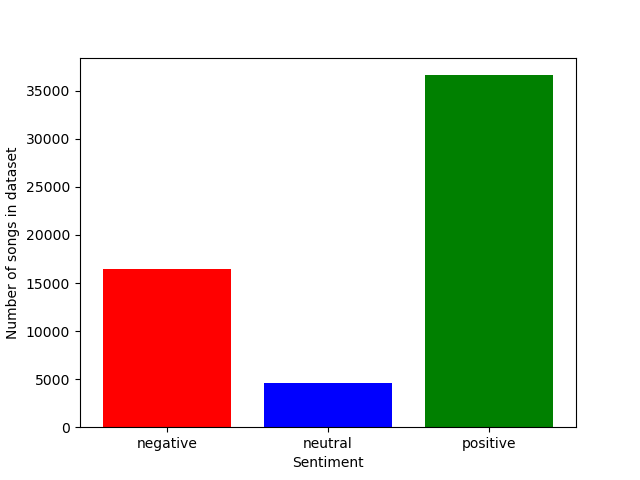
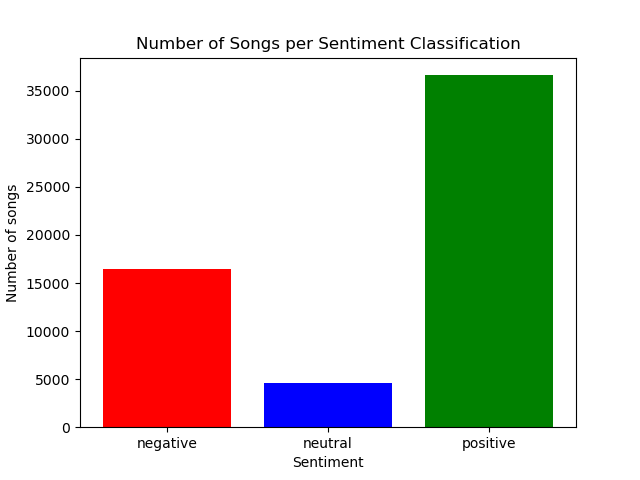
new models

Changed region(s): [[0.2188, 0.0625, 0.8125, 0.125], [0.0, 0.3125, 0.0312, 0.7188]]

diff --git a/get_top5/knn_sentiment.py b/get_top5/knn_sentiment.py
@@ -6,31 +6,61 @@ import re
 import top5_sentiment as tp
 import matplotlib.pyplot as plt
 from sklearn.neighbors import NearestNeighbors
+from sklearn.cluster import KMeans
+from sklearn.model_selection import train_test_split
+from sklearn.linear_model import LogisticRegression
+from sklearn.metrics import classification_report
+from nltk.tokenize import sent_tokenize, word_tokenize, RegexpTokenizer
+from nltk.sentiment.vader import SentimentIntensityAnalyzer
+import plotly.express as px
+from sklearn.naive_bayes import MultinomialNB
+from sklearn.model_selection import train_test_split
+from sklearn.metrics import classification_report
 
 
 data = pd.read_csv('data_with_sentiment.csv')
 scores = data['Sentiment Scores'].tolist()
 lyrics = data['text'].tolist()
 
+#length of song titles and lyrics
+data['song_title_word_count'] = data['song'].str.split().str.len()
+data['lyrics_word_count'] = data['text'].str.split().str.len()
+
+"---------------------------------------------------------------------------------"
+
 neg = sum(1 for num in scores if num < 0)
 zero = sum(1 for num in scores if num == 0)
 pos = sum(1 for num in scores if num > 0)
 
-#Total dataset
+#overall analysis of dataframe with sentiment score data (mean, std, etc.)
+print("Overall Song Sentiment Data")
+print(data['Sentiment Scores'].describe())
+print()
+
+#Total dataset counts and graph of it
 print("Number of negative songs:", neg)
 print("Number of neutral songs:", zero)
 print("Number of positive songs:", pos)
-
-categories = ['negative', 'neutral', 'positive']
-counts = [neg, zero, pos]
-plt.bar(categories, counts, color=['red', 'blue', 'green'])
+vals = ['negative', 'neutral', 'positive']
+plt.bar(vals, [neg, zero, pos], color=['red', 'blue', 'green'])
 plt.xlabel('Sentiment')
-plt.ylabel('Number of songs in dataset')
+plt.ylabel('Number of songs')
+plt.title('Number of Songs per Sentiment Classification')
 plt.savefig('full_dataset_songs_sentiment.png')
 
+"---------------------------------------------------------------------------------"
 
-k = 5
+#Histogram of Lyric Count versus Sentiment Score (-1 is the lowest, 1 is the highest)
+plt.clf()  
+plt.hist(data['Sentiment Scores'], bins=20, color='gray')
+plt.xlabel('Sentiment Score')
+plt.ylabel('Frequency')
+plt.title('Number of Lyrics vs Distribution of Sentiment Scores')
+plt.savefig('sentiment_histogram_with_wordcount.png')
 
+"---------------------------------------------------------------------------------"
+
+#Sentiment scores for the top 5 songs by user 
 sentiment_results = tp.sentiment(tp.top5_lyrics)
 top_scores = []
 for s in sentiment_results:
@@ -40,17 +70,159 @@ for s in sentiment_results:
 top_scores = np.array(top_scores).reshape(-1, 1)
 scores = np.array(scores).reshape(-1, 1)
 
+"---------------------------------------------------------------------------------"
 
+#K-Nearest Neighbors with 5 neighbors (5 songs per recommendation)
+k = 5
 knn_model = NearestNeighbors(n_neighbors=k, metric='euclidean')
 knn_model.fit(scores)
 
 distances, indices = knn_model.kneighbors(top_scores)
 
+print('K-Nearest-Neighbors Recommended Songs: ')
+print(' ')
 num_recommendations = 5
 for i in range(len(top_scores)):
-    print("Top", num_recommendations, "recommended songs for top song", i+1)
+    print("Top", num_recommendations, "recommended songs by knn for song", i+1)
     for j in range(num_recommendations):
-        recommended_song_index = indices[i, j]
-        print("Recommended Song", j+1, ": Song", data['song'][recommended_song_index], "Score: ", data['Sentiment Scores'][recommended_song_index])
+        indx = indices[i, j]
+        print(" Song", j+1, " ", data['song'][indx], "; Score: ", data['Sentiment Scores'][indx])
+
+print()
+"---------------------------------------------------------------------------------"
+
+#K-means with 5 clusters
+num_clusters = 5
+kmeans = KMeans(n_clusters=num_clusters, random_state=42)
+kmeans.fit(scores)
+
+cluster_labels = kmeans.labels_
+
+def kmeans_recommend(top_scores, k=5):
+    recs = []
+    for score in top_scores:
+        top_cluster = kmeans.predict(np.array(score).reshape(1, -1))[0]  
+        
+        cluster_indices = np.where(cluster_labels == top_cluster)[0]
+        
+        scores_array = np.array(scores).reshape(-1, 1)  
+        cluster_indices = np.setdiff1d(cluster_indices, np.where(np.isin(scores_array, score))[0])
+        
+        recommended_indices = np.random.choice(cluster_indices, size=min(k, len(cluster_indices)), replace=False)
+        
+        recs.append(data.iloc[recommended_indices])
+    
+    return recs
+
+recommended_songs = kmeans_recommend(top_scores)
+
+for i, songs in enumerate(recommended_songs):
+    print(f"Top {i+1} Recommended Songs:")
+    print(songs[['song', 'artist', 'Sentiment Scores']])
+
+print()
+"---------------------------------------------------------------------------------"
+
+print("Naive Bayes: ")
+
+sentiment_labels = []
+
+for i in scores: 
+    if i<0:
+        sentiment_labels.append('negative')
+    elif i==0:
+        sentiment_labels.append('neutral')
+    else:
+        sentiment_labels.append('positive')
 
 
+#can't be negative so apply Laplace Smoothing
+scores = scores +1
+top_scores = top_scores +1
+
+X_train, X_test, y_train, y_test = train_test_split(scores, sentiment_labels, test_size=0.2, random_state=42, stratify=sentiment_labels)
+
+nb_classifier = MultinomialNB(class_prior=None, fit_prior=True)
+nb_classifier.fit(X_train, y_train)
+y_pred = nb_classifier.predict(X_test)
+
+print()
+
+print("Naive Bayes classification report:", classification_report(y_test, y_pred, zero_division=1))
+
+print()
+
+def recommend(top_scores, classifier, k=5):
+    recommendations = []
+    for score in top_scores:
+        sentiment_label = classifier.predict(np.array(score).reshape(1, -1))[0]  # Predict sentiment label
+
+        indices = np.where(np.array(sentiment_labels) == sentiment_label)[0]
+
+        data_recs = data.iloc[indices] 
+        recommended_songs = data_recs.sample(min(k, len(data_recs)))
+        
+        recommendations.append(recommended_songs)
+    
+    return recommendations
+
+
+naive_recs = recommend(top_scores, nb_classifier)
+
+for i, songs in enumerate(naive_recs):
+    print(f"Top {i+1} Recommended Songs:")
+    print(songs[['song', 'artist', 'Sentiment Scores']])
+
+
+scores = scores - 1
+top_scores = top_scores - 1
+
+print()
+
+"---------------------------------------------------------------------------------"
+
+print("Logistic model")
+
+X_train, X_test, y_train, y_test = train_test_split(scores, sentiment_labels, test_size=0.2, random_state=42, stratify=sentiment_labels)
+
+
+logistic_classifier = LogisticRegression(max_iter=1000)  
+
+logistic_classifier.fit(X_train, y_train)
+y_pred = logistic_classifier.predict(X_test)
+
+print()
+
+print("Logistic classification report:", classification_report(y_test, y_pred))
+
+print()
+
+logistic_recs = recommend(top_scores, logistic_classifier)
+
+for i, songs in enumerate(logistic_recs):
+    print(f"Top {i+1} Recommended Songs:")
+    print(songs[['song', 'artist', 'Sentiment Scores']])
+
+
+print()
+
+"---------------------------------------------------------------------------------"
+
+# def song_recs(sentence):
+#   my_tokenizer = RegexpTokenizer("[\w']+|\$[\d\.]+")
+#   clean_words = my_tokenizer.tokenize(sentence.lower())
+    
+#   cleaned_sentence =  ' '.join(clean_words)
+ 
+#   sid_obj = SentimentIntensityAnalyzer()
+ 
+#   sentiment_dict = sid_obj.polarity_scores(cleaned_sentence)
+
+#   mask= (data["Sentiment Scores"]>(sentiment_dict['compound']))
+    
+#   recs = data[mask].sort_values(by="Sentiment Scores")[:10]
+  
+#   return recs[["artist", "song", "Sentiment Scores"]]
+
+# for i in tp.top5_lyrics:
+    # print(song_recs(i))

diff --git a/get_top5/top5_sentiment.py b/get_top5/top5_sentiment.py
@@ -11,7 +11,6 @@ from nltk.corpus import words
 from nltk.sentiment.vader import SentimentIntensityAnalyzer
 import matplotlib.pyplot as plt
 
-
 df = pd.read_csv('output/top5_songs.csv')
 data = gp.read_dataset('spotify_millsongdata.csv')
 
@@ -134,6 +133,8 @@ def graph_sentiment(sentiment_results):
 
         # Save the graph as an image file
         plt.savefig('top5_sentiment_analysis.png')
+
+
 
 if __name__ == "__main__":
     sentiment_results = sentiment(top5_lyrics)
